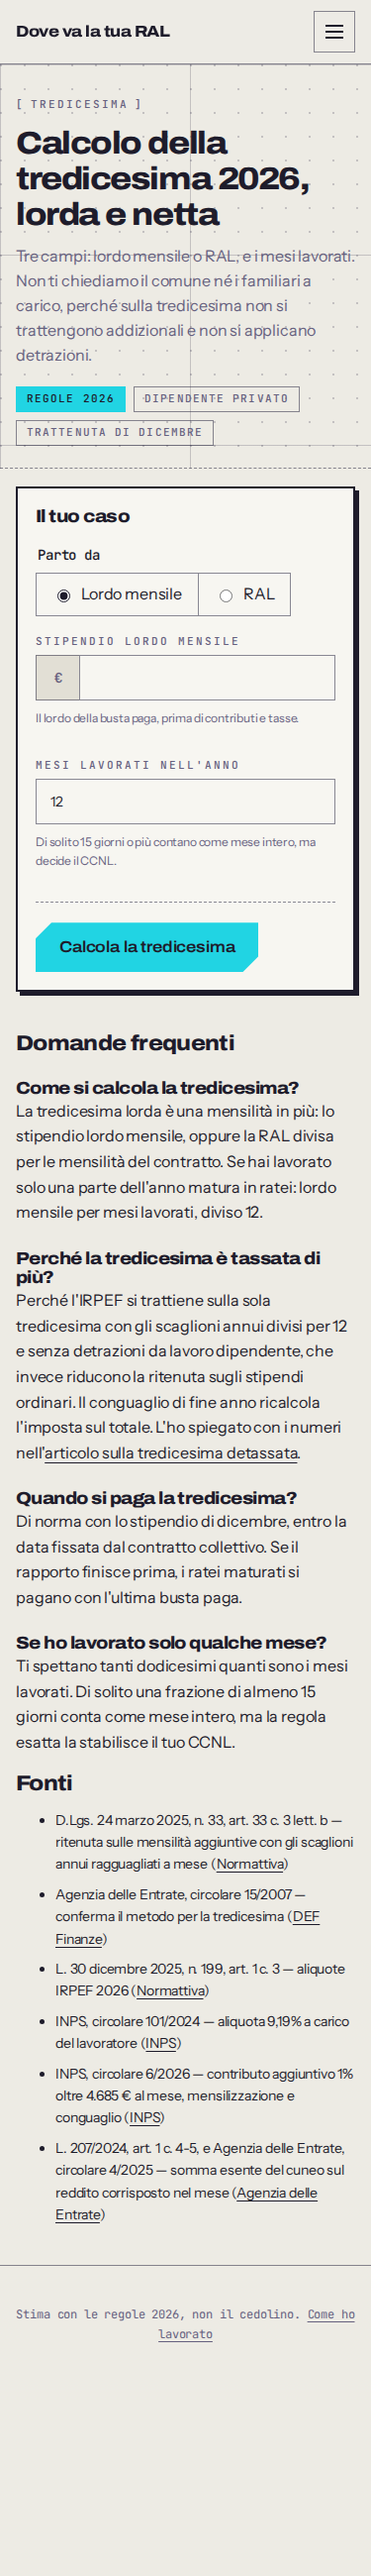
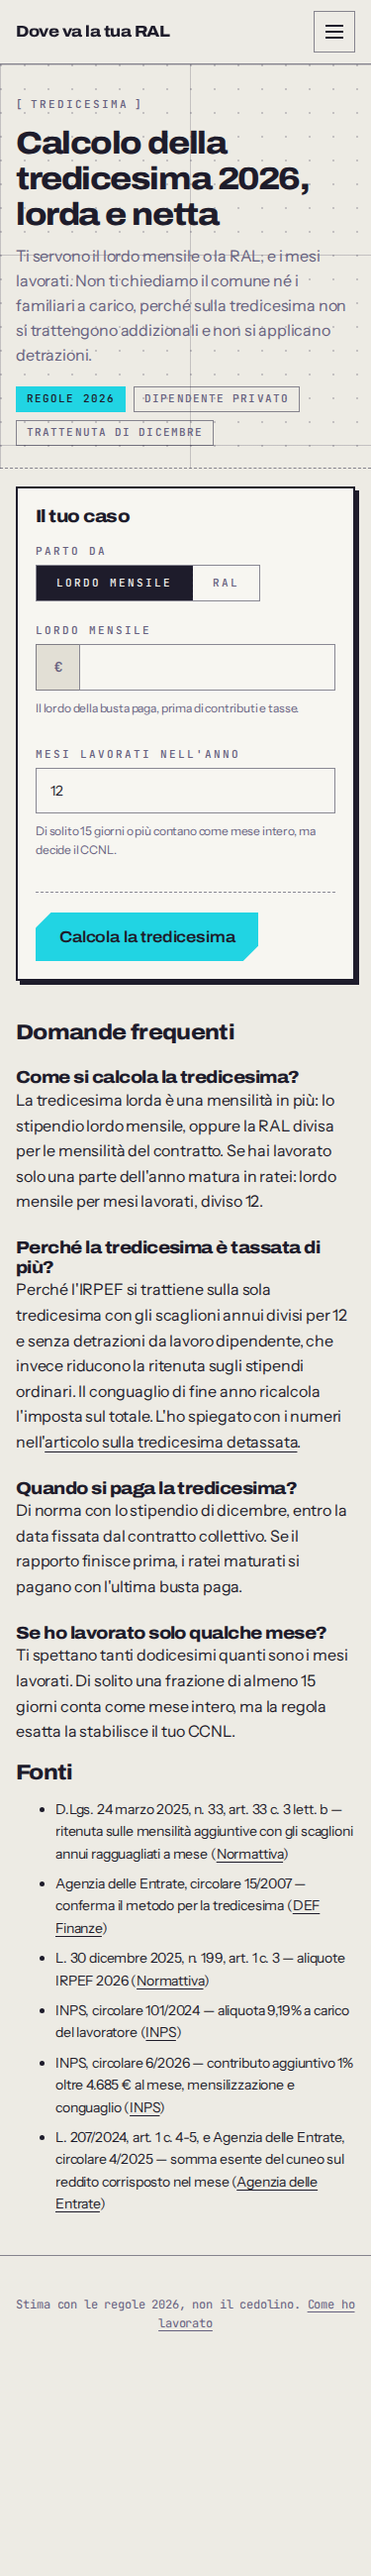
fix(RIC-76): campi del form allineati e componenti del design system
- mensilità con .select invece di .input (altezza e freccia come gli altri campi)
- etichette su una riga ("RAL", "Lordo mensile"), colonne fisse allineate in alto
- "Parto da" con l'aspetto di .segmented, errori con .error-text
- via "Tre campi" dal sottotitolo: in modalità lordo sono due

Changed region(s): [[0.0293, 0.1869, 0.968, 0.9035], [0.0587, 0.0935, 0.9387, 0.1558]]

diff --git a/prototipo/calcolo-tredicesima/index.html b/prototipo/calcolo-tredicesima/index.html
@@ -15,13 +15,23 @@ body{padding-bottom:0}.pg{width:min(100% - (var(--gutter) * 2),1180px);margin-in
 .pagehero .meta{display:flex;gap:var(--s-2);flex-wrap:wrap;margin-top:var(--s-5)}
 .t-form{margin-top:clamp(18px,2vw,26px);border:var(--bw-thick) solid var(--line-solid);background:var(--bg-raised);padding:clamp(18px,2.4vw,26px);box-shadow:var(--lift-md) var(--line-solid)}
 .t-form h2{margin:0 0 var(--s-5);font-size:var(--t-h4)}
-.modi{display:flex;gap:0;border:0;padding:0;margin:0 0 var(--s-5)}.modi legend{margin-bottom:var(--s-2);font:500 var(--t-sm)/1.4 var(--font-mono)}
-.modi label{display:inline-flex;align-items:center;gap:var(--s-2);padding:var(--s-2) var(--s-4);border:var(--bw) solid var(--line-strong);cursor:pointer}
-.modi label+label{border-left:0}.modi input{accent-color:currentColor}
-.campi{display:grid;gap:var(--s-5);grid-template-columns:repeat(auto-fit,minmax(200px,1fr));max-width:760px}
+/* Parto da: radio con l'aspetto di .segmented del design system. */
+.modi{display:grid;gap:var(--s-2);border:0;padding:0;margin:0 0 var(--s-6);min-inline-size:0}
+.modi legend{padding:0;margin-bottom:var(--s-2)}
+.modi .segmented{justify-self:start}
+.modi label{position:relative;padding:10px 20px;border-right:var(--bw) dashed var(--line-strong);cursor:pointer;
+  font:500 var(--t-label)/1.4 var(--font-mono);letter-spacing:var(--ls-label);text-transform:uppercase;color:var(--fg-muted)}
+.modi label:last-child{border-right:0}
+.modi label:hover{background:var(--c-citron);color:var(--c-graphite)}
+.modi label:has(input:checked){background:var(--c-graphite);color:var(--c-fog)}
+.modi label:has(input:focus-visible){outline:var(--bw-thick) solid var(--focus);outline-offset:2px}
+.modi input{position:absolute;opacity:0;pointer-events:none}
+/* Colonne fisse e allineate in alto: etichette, box e aiuti sulla stessa riga. */
+.campi{display:grid;gap:var(--s-5);grid-template-columns:minmax(0,1.4fr) minmax(0,1fr) minmax(0,1fr);align-items:start;max-width:820px}
+@media (max-width:720px){.campi{grid-template-columns:1fr}}
 .campi [hidden]{display:none}
 .ingroup{display:flex}.ingroup .affix{display:grid;place-items:center;width:44px;flex:none;border:var(--bw) solid var(--line-strong);border-right:0;background:var(--bg-sunken);font:500 var(--t-sm)/1 var(--font-mono);color:var(--fg-muted)}
-.ingroup .input{flex:1;min-width:0}.errore{margin:var(--s-2) 0 0;font:400 var(--t-xs)/1.5 var(--font-mono);color:var(--danger,#b3261e)}
+.ingroup .input{flex:1;min-width:0}
 .azioni{display:flex;align-items:center;gap:var(--s-4);flex-wrap:wrap;margin-top:var(--s-5);padding-top:var(--s-5);border-top:var(--bw) dashed var(--line-strong)}
 .result{margin-top:clamp(28px,3.4vw,48px);padding-top:var(--s-8);border-top:var(--bw) solid var(--line-strong)}.result[hidden]{display:none}
 .result h2{margin:0 0 var(--s-4);font-size:var(--t-h3)}
@@ -57,29 +67,29 @@ body{padding-bottom:0}.pg{width:min(100% - (var(--gutter) * 2),1180px);margin-in
   <div class="pagehero"><div class="pg">
     <div class="eyebrow">Tredicesima</div>
     <h1>Calcolo della tredicesima 2026, lorda e netta</h1>
-    <p>Tre campi: lordo mensile o RAL, e i mesi lavorati. Non ti chiediamo il comune né i familiari a carico, perché sulla tredicesima non si trattengono addizionali e non si applicano detrazioni.</p>
+    <p>Ti servono il lordo mensile o la RAL, e i mesi lavorati. Non ti chiediamo il comune né i familiari a carico, perché sulla tredicesima non si trattengono addizionali e non si applicano detrazioni.</p>
     <div class="meta"><span class="tag tag--flux">Regole 2026</span><span class="tag">Dipendente privato</span><span class="tag">Trattenuta di dicembre</span></div>
   </div></div>
   <div class="pg">
   <section class="t-form" aria-labelledby="form-title">
     <h2 id="form-title">Il tuo caso</h2>
     <form id="t-form" novalidate>
-      <fieldset class="modi"><legend>Parto da</legend>
+      <fieldset class="modi"><legend class="label">Parto da</legend><div class="segmented">
         <label><input type="radio" name="modalita" value="lordo" checked> Lordo mensile</label>
         <label><input type="radio" name="modalita" value="ral"> RAL</label>
-      </fieldset>
+      </div></fieldset>
       <div class="campi">
-        <div class="field"><label class="label" for="importo" id="importo-label">Stipendio lordo mensile</label>
+        <div class="field"><label class="label" for="importo" id="importo-label">Lordo mensile</label>
           <div class="ingroup"><span class="affix" aria-hidden="true">€</span><input class="input" id="importo" name="importo" inputmode="decimal" autocomplete="off" aria-describedby="importo-help importo-errore"></div>
           <p class="hint" id="importo-help">Il lordo della busta paga, prima di contributi e tasse.</p>
-          <p class="errore" id="importo-errore" hidden></p></div>
+          <p class="error-text" id="importo-errore" hidden></p></div>
         <div class="field" id="campo-mensilita" hidden><label class="label" for="mensilita">Mensilità</label>
-          <select class="input" id="mensilita" name="mensilita" aria-describedby="mensilita-errore"><option value="13" selected>13</option><option value="14">14</option></select>
-          <p class="errore" id="mensilita-errore" hidden></p></div>
+          <select class="select" id="mensilita" name="mensilita" aria-describedby="mensilita-errore"><option value="13" selected>13</option><option value="14">14</option></select>
+          <p class="error-text" id="mensilita-errore" hidden></p></div>
         <div class="field"><label class="label" for="mesi">Mesi lavorati nell'anno</label>
           <input class="input" id="mesi" name="mesi" type="number" min="1" max="12" step="1" value="12" inputmode="numeric" aria-describedby="mesi-help mesi-errore">
           <p class="hint" id="mesi-help">Di solito 15 giorni o più contano come mese intero, ma decide il CCNL.</p>
-          <p class="errore" id="mesi-errore" hidden></p></div>
+          <p class="error-text" id="mesi-errore" hidden></p></div>
       </div>
       <div class="azioni"><button class="btn btn--primary btn--lg" type="submit">Calcola la tredicesima</button></div>
     </form>
@@ -132,8 +142,8 @@ body{padding-bottom:0}.pg{width:min(100% - (var(--gutter) * 2),1180px);margin-in
   function aggiornaModalita(){
     const ral=modalita()==='ral';
     $('campo-mensilita').hidden=!ral;
-    $('importo-label').textContent=ral?'RAL (retribuzione annua lorda)':'Stipendio lordo mensile';
-    $('importo-help').textContent=ral?'Il lordo annuo scritto nel contratto.':'Il lordo della busta paga, prima di contributi e tasse.';
+    $('importo-label').textContent=ral?'RAL':'Lordo mensile';
+    $('importo-help').textContent=ral?'Retribuzione annua lorda, come nel contratto.':'Il lordo della busta paga, prima di contributi e tasse.';
   }
   function pulisci(){
     box.hidden=true;

diff --git a/prototipo/calcolo-tredicesima.test.js b/prototipo/calcolo-tredicesima.test.js
@@ -46,3 +46,10 @@ test('ogni menu "Calcola" porta alla tredicesima',()=>{
 test('le pagine RAL linkano la tredicesima a quella RAL',()=>{
   assert.match(readFileSync(resolve(__dirname,'ral-30000-netto/index.html'),'utf8'),/href="\.\.\/calcolo-tredicesima\/\?ral=30000"/);
 });
+
+test('il form usa i componenti del design system',()=>{
+  assert.match(html,/<select class="select" id="mensilita"/);
+  assert.doesNotMatch(html,/<select class="input"/);
+  assert.match(html,/<fieldset class="modi"><legend class="label">Parto da<\/legend><div class="segmented">/);
+  assert.match(html,/<p class="error-text" id="importo-errore"/);
+});

diff --git a/processo/verifiche/calcolo-tredicesima/README.md b/processo/verifiche/calcolo-tredicesima/README.md
@@ -23,8 +23,8 @@ valida lascia la pagina vuota): è coperto dai test di `normalizza`.
 
 ## Test
 
-`npm test` → 492 test, 492 pass, 0 fail. Comprende `tredicesima.test.js` (14),
-`calcolo-tredicesima.test.js` (6) e i 3 test di `genera-articoli` che fallivano
+`npm test` → 493 test, 493 pass, 0 fail. Comprende `tredicesima.test.js` (14),
+`calcolo-tredicesima.test.js` (7) e i 3 test di `genera-articoli` che fallivano
 dal commit del link nell'articolo.
 
 `node processo/attrezzi/build.cjs` → `dist/calcolo-tredicesima/index.html` e
